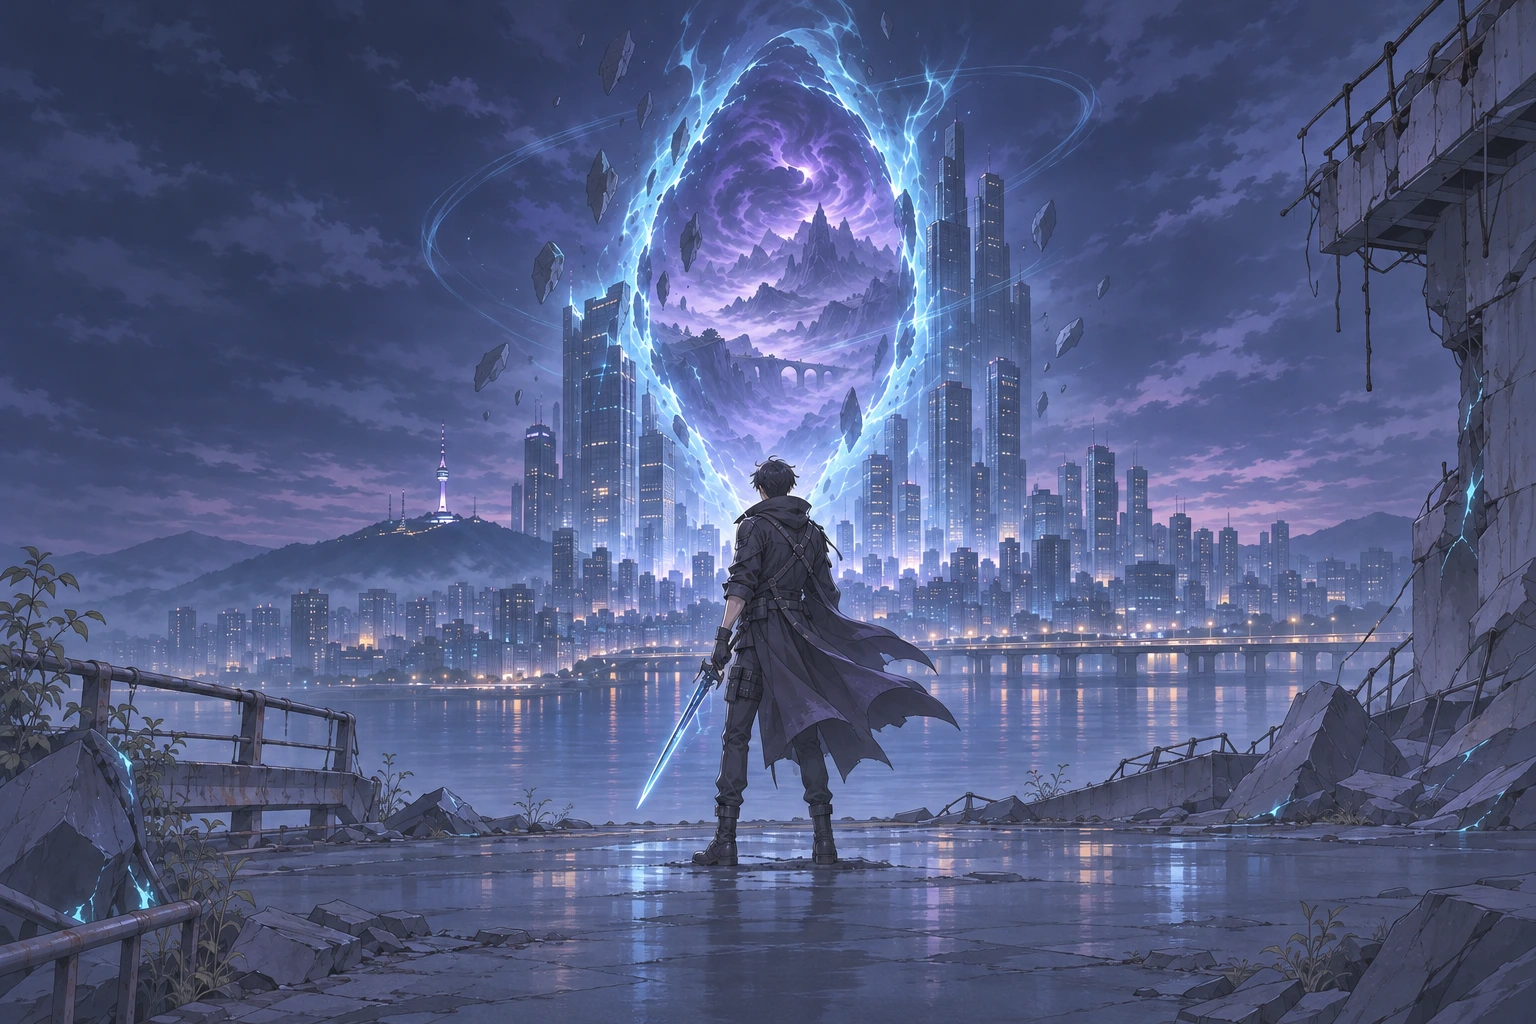
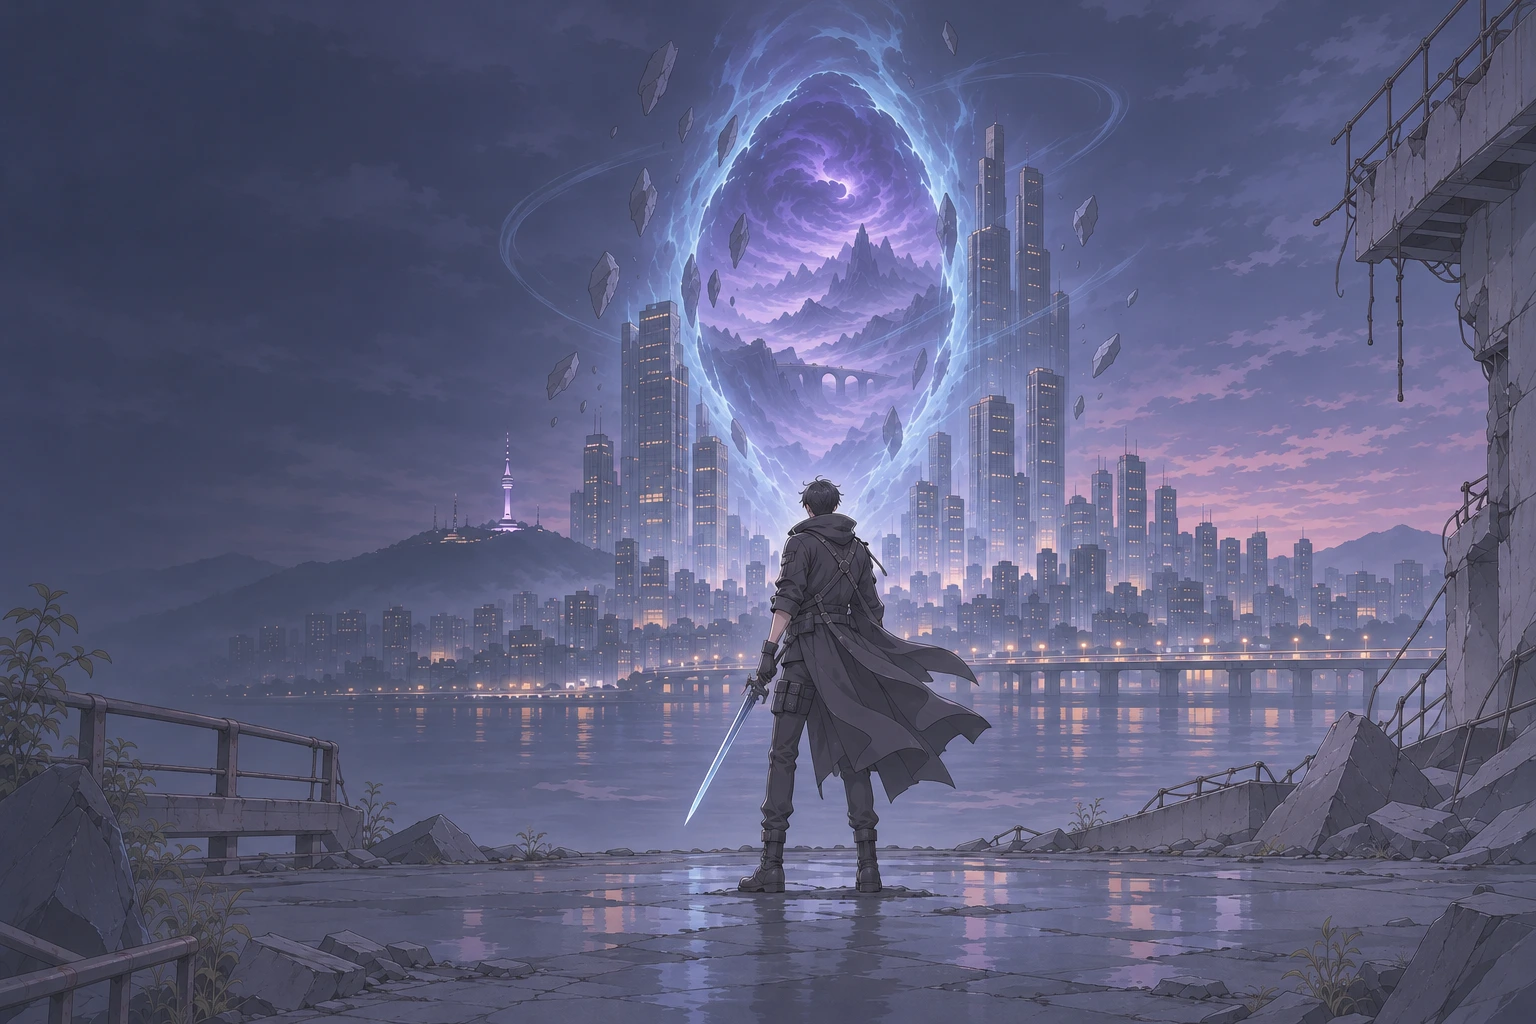
v0.63: [그림] 타이틀 화풍 보정과 모바일 중앙 초점 적용

diff --git a/index.html b/index.html
@@ -8,7 +8,7 @@
   <meta name="theme-color" content="#05080d">
   <link rel="preconnect" href="https://fonts.googleapis.com">
   <link rel="stylesheet" href="https://fonts.googleapis.com/css2?family=Black+Han+Sans&family=Chakra+Petch:wght@500;600;700&family=IBM+Plex+Sans+KR:wght@400;500;700&display=swap">
-  <link rel="stylesheet" href="dist/style.css?v=s2.0.62">
+  <link rel="stylesheet" href="dist/style.css?v=s2.0.63">
 </head>
 <body>
   <div id="app"></div>
@@ -26,6 +26,6 @@
       document.body.appendChild(d);
     });
   </script>
-  <script src="dist/game.js?v=s2.0.62"></script>
+  <script src="dist/game.js?v=s2.0.63"></script>
 </body>
 </html>

diff --git a/css/style.css b/css/style.css
@@ -111,7 +111,7 @@ p { margin: 6px 0; }
 .title-screen .btns .primary:hover { background-color: #32668c; }
 @media (max-width: 640px) {
   .title-screen { padding: 16px; justify-content: center; }
-  .title-art { object-position: 68% center; }
+  .title-art { object-position: 50% center; }
   .title-screen::before { background: linear-gradient(180deg, rgba(5, 12, 26, .28), rgba(5, 12, 26, .8) 55%, rgba(5, 12, 26, .92)); }
   .title-inner { width: 100%; padding: 24px 0; }
   .title-inner .logo { font-size: clamp(32px, 9vw, 52px); }

diff --git a/js/data.js b/js/data.js
@@ -1,5 +1,5 @@
 // 게임 버전 (화면 오른쪽 아래에 표시)
-const GAME_VERSION = '0.62';
+const GAME_VERSION = '0.63';
 
 // ===== 게이트 크로니클: 데이터 정의 =====
 // 귀곡팔황의 "경지"를 각성 등급으로, "오행"을 에테르 속성으로 옮겼다.
